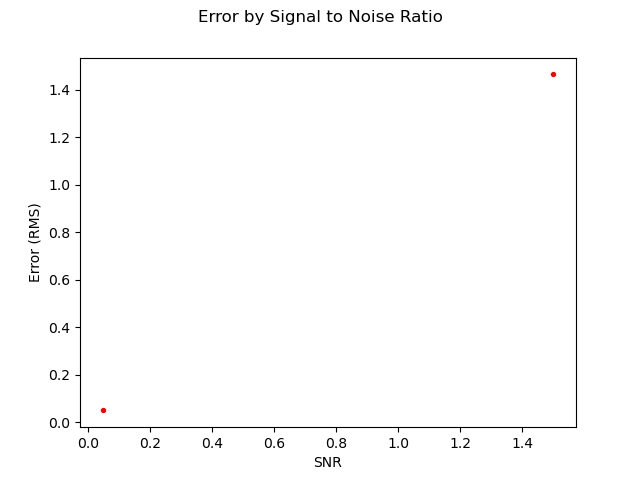
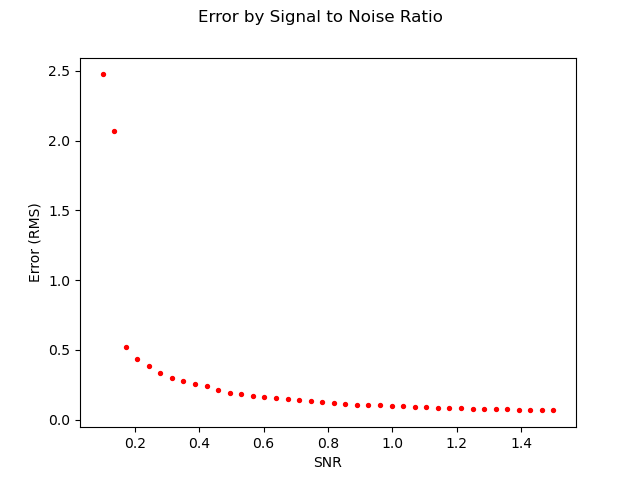
Plot of Error by SNR

diff --git a/scripts/alpha.py b/scripts/alpha.py
@@ -137,7 +137,7 @@ if __name__ == "__main__":
     try:
         fig = plt.figure()
         axes = fig.add_subplot()
-        axes.scatter(f_result[0], f_result[1], 8, "red")
+        axes.scatter(f_result[:, 0], f_result[:, 1], 8, "red")
         axes.set_xlabel("SNR")
         axes.set_ylabel("Error (RMS)")
         fig.suptitle("Error by Signal to Noise Ratio")
